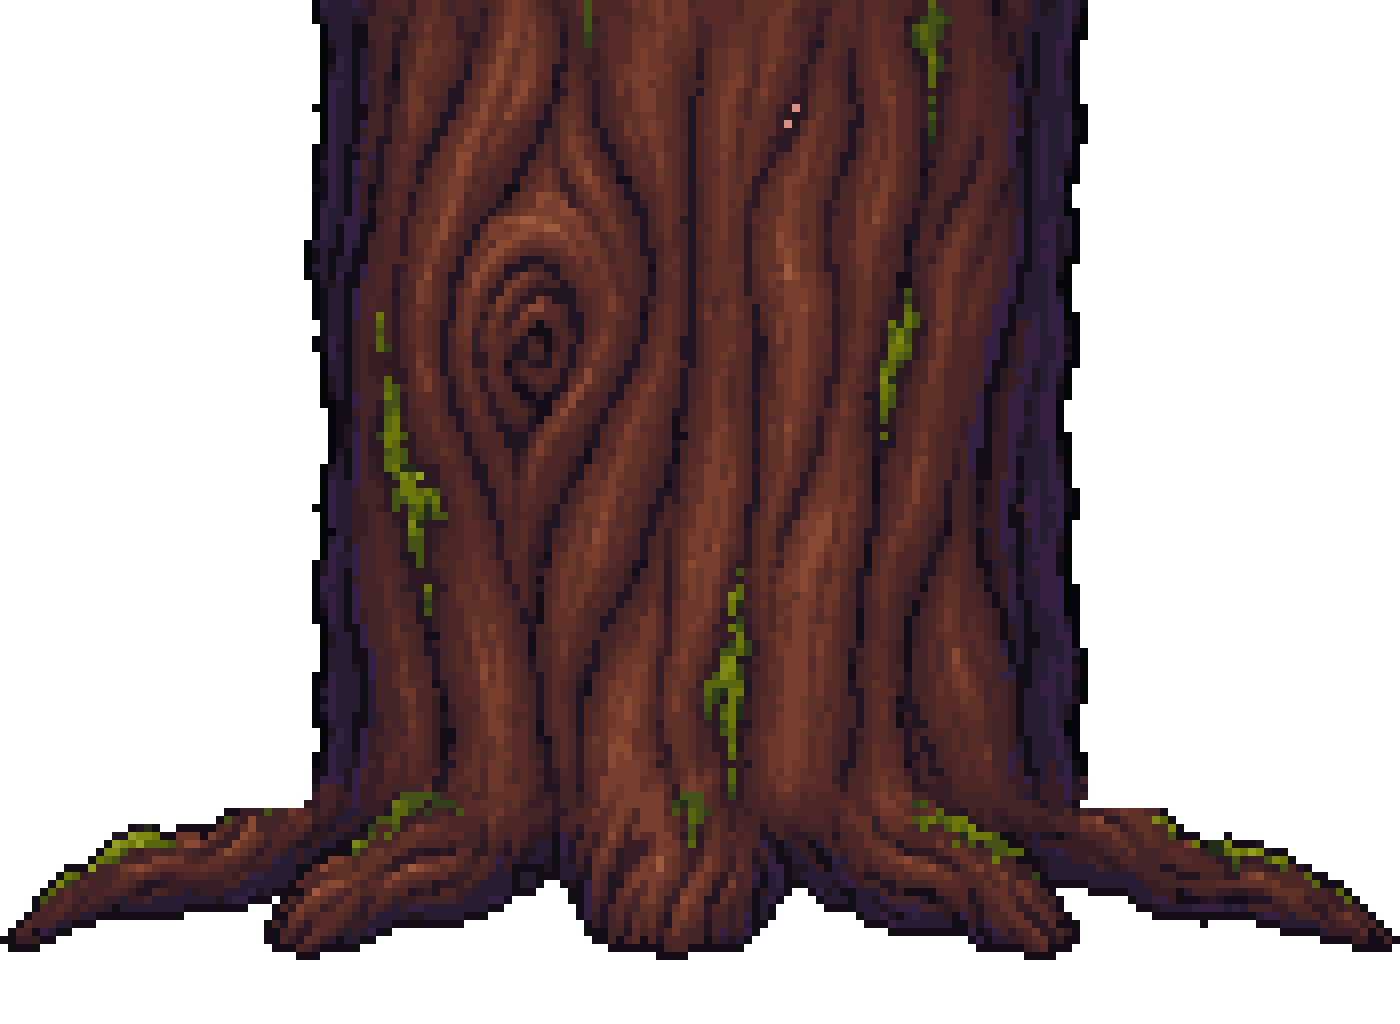
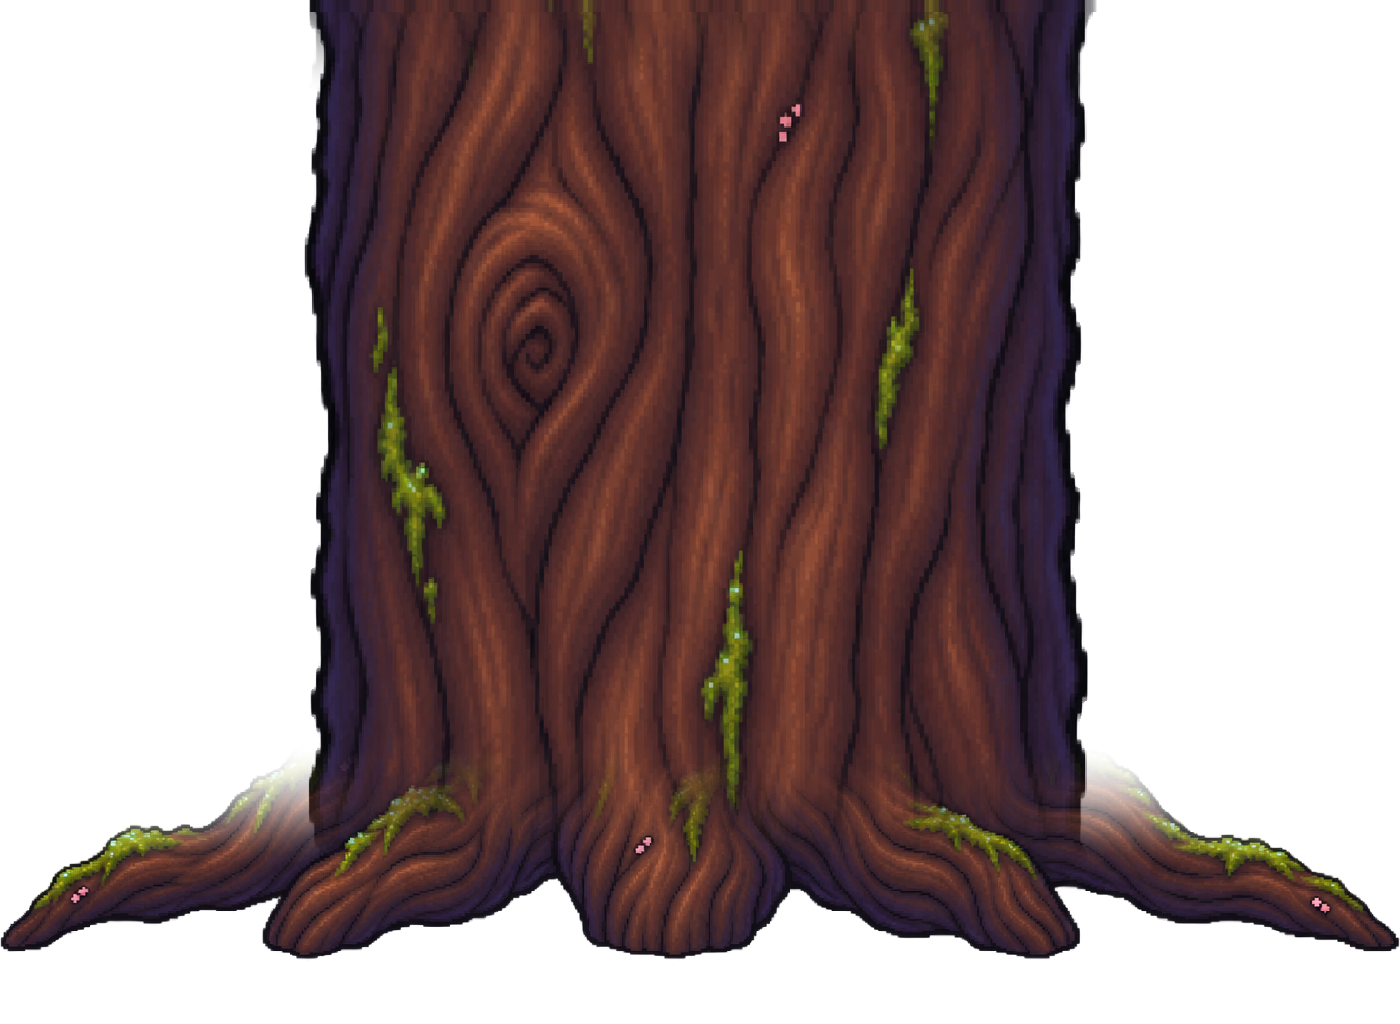
Troncs et branches : meme grain de pixel partout. Les pieces reviennent a l'art d'origine et BrancheKit pixelise l'image assemblee (cases de 2 px du monde, palette d'ecorce de 24 couleurs) : plus de pixels de taille differente selon l'epaisseur, ni de grille cassee sur les branches courbes

diff --git a/src/utils/BrancheKit.js b/src/utils/BrancheKit.js
@@ -47,16 +47,70 @@ function brancheCanvas(w, h) {
   return c;
 }
 
-// Pièces refaites en pixel art (tools/pixelfix.js, registre PIXEL_FIXED) : on les
-// réduit SANS lissage, sinon leurs blocs de pixels redeviennent flous une fois
-// ramenés à l'échelle du monde. Art IA d'origine ou dessin par code : lissé.
-const BRANCHE_PIXEL_ART = typeof PIXEL_FIXED !== 'undefined' && !!PIXEL_FIXED['assets/decors/elements/branche_milieu.png'];
-
 function brancheCtx(c) {
   const ctx = c.getContext('2d');
-  ctx.imageSmoothingEnabled = !BRANCHE_PIXEL_ART;
+  ctx.imageSmoothingEnabled = true;
   ctx.imageSmoothingQuality = 'high';
   return ctx;
+}
+
+// Pixel art à grain UNIQUE (retour utilisateur du 2026-11-11 : « les éléments
+// ne sont pas tous au même niveau de pixel »). Pixeliser les six pièces ne
+// suffisait pas : chaque branche les étire selon son épaisseur (pixels de 2 à
+// 4 px selon la branche) et les branches courbes les découpent en tranches
+// tournées (grille cassée). On assemble donc avec l'art d'origine, lissé, puis
+// on pixelise l'image FINALE : cases de BRANCHE_PIXEL px du monde, couleur =
+// moyenne de la case ramenée à la palette de l'écorce (24 couleurs tirées des
+// pièces par pixel-fixer, `make-palette`), bord net (case pleine ou vide).
+// 0 = désactivé (art lissé d'origine).
+const BRANCHE_PIXEL = 2;
+const BRANCHE_PALETTE = [
+  0x040509, 0x120d17, 0x1e1420, 0x2c1922, 0x1a2317, 0x291c34, 0x381f25, 0x352246,
+  0x442326, 0x28361c, 0x4f2927, 0x5b2e29, 0x36461a, 0x67352b, 0x753c2e, 0x485714,
+  0x864733, 0x5d690f, 0xa05b3d, 0x6f7a0d, 0x828c14, 0x94a323, 0xdd8c88, 0xaac359,
+].map((c) => [(c >> 16) & 255, (c >> 8) & 255, c & 255]);
+
+function branchePixelate(canvas) {
+  const G = BRANCHE_PIXEL;
+  if (!G) return canvas;
+  const w = canvas.width, h = canvas.height;
+  const ctx = canvas.getContext('2d');
+  const img = ctx.getImageData(0, 0, w, h);
+  const d = img.data;
+  const cache = new Map();
+  for (let cy = 0; cy < h; cy += G) {
+    for (let cx = 0; cx < w; cx += G) {
+      let r = 0, g = 0, b = 0, a = 0, n = 0;
+      for (let y = cy; y < Math.min(h, cy + G); y++) {
+        for (let x = cx; x < Math.min(w, cx + G); x++) {
+          const i = (y * w + x) * 4, al = d[i + 3];
+          r += d[i] * al; g += d[i + 1] * al; b += d[i + 2] * al; a += al; n++;
+        }
+      }
+      let out = null;
+      if (a / n >= 128) {
+        r /= a; g /= a; b /= a;
+        const key = ((r >> 2) << 12) | ((g >> 2) << 6) | (b >> 2);
+        out = cache.get(key);
+        if (!out) {
+          let best = Infinity;
+          for (const c of BRANCHE_PALETTE) {
+            const dr = c[0] - r, dg = c[1] - g, db = c[2] - b, dist = dr * dr * 0.3 + dg * dg * 0.59 + db * db * 0.11;
+            if (dist < best) { best = dist; out = c; }
+          }
+          cache.set(key, out);
+        }
+      }
+      for (let y = cy; y < Math.min(h, cy + G); y++) {
+        for (let x = cx; x < Math.min(w, cx + G); x++) {
+          const i = (y * w + x) * 4;
+          if (out) { d[i] = out[0]; d[i + 1] = out[1]; d[i + 2] = out[2]; d[i + 3] = 255; } else d[i + 3] = 0;
+        }
+      }
+    }
+  }
+  ctx.putImageData(img, 0, 0);
+  return canvas;
 }
 
 // Image source d'une pièce : l'art s'il est chargé, sinon le dessin par code.
@@ -348,6 +402,7 @@ function addBranchImage(scene, b) {
   let meta = BRANCHE_META.get(key);
   if (!meta || !scene.textures.exists(`${key}-0`)) {
     const { canvas, dx, dy } = brancheCompose(scene, b);
+    branchePixelate(canvas);
     const chunks = [];
     for (let i = 0, x = 0; x < canvas.width; i++, x += BRANCHE_MAX_TEXTURE) {
       const w = Math.min(BRANCHE_MAX_TEXTURE, canvas.width - x);
@@ -355,10 +410,12 @@ function addBranchImage(scene, b) {
       part.getContext('2d').drawImage(canvas, x, 0, w, canvas.height, 0, 0, w, canvas.height);
       const k = `${key}-${i}`;
       if (scene.textures.exists(k)) scene.textures.remove(k);
-      scene.textures.addCanvas(k, part);
+      const tex = scene.textures.addCanvas(k, part);
+      if (BRANCHE_PIXEL && tex) tex.setFilter(Phaser.Textures.FilterMode.NEAREST);
       chunks.push({ key: k, x });
     }
-    meta = { dx, dy, chunks };
+    // Pixel art : image posée sur un px entier, la grille ne bave pas.
+    meta = BRANCHE_PIXEL ? { dx: Math.round(dx), dy: Math.round(dy), chunks } : { dx, dy, chunks };
     BRANCHE_META.set(key, meta);
   }
   return meta.chunks.map((c) => {
@@ -408,9 +465,10 @@ function addTrunkImage(scene, t, data) {
     const dx = Math.round((w - segW) / 2);
     for (let y = hasBase ? footTop : h; y > 0; y -= tileH) ctx.drawImage(seg, dx, y - tileH, segW, tileH);
     if (hasBase) ctx.drawImage(branchePiece(scene, 'tronc_base'), 0, footTop, baseW, baseH);
-    scene.textures.addCanvas(key, canvas);
+    const tex = scene.textures.addCanvas(key, branchePixelate(canvas));
+    if (BRANCHE_PIXEL && tex) tex.setFilter(Phaser.Textures.FilterMode.NEAREST);
   }
-  const img = scene.add.image(t.x - w / 2, top, key).setOrigin(0, 0);
+  const img = scene.add.image(Math.round(t.x - w / 2), top, key).setOrigin(0, 0);
   if (t.flipX) img.setFlipX(true);
   if (t.tint != null) img.setTint(t.tint);
   img.lookRole = 'world';

diff --git a/src/data/pixel_fixed.js b/src/data/pixel_fixed.js
@@ -3,12 +3,6 @@
 // BootScene les affiche sans lissage (NEAREST) ; import_codex_assets.py ne
 // les réécrit pas. `f` : px de l'image = 1 pixel dessiné ; `set` : le lot.
 const PIXEL_FIXED = {
-  "assets/decors/elements/branche_base.png": {"f":8,"set":"files:assets/decors/elements/branche_milieu.png"},
-  "assets/decors/elements/branche_bout.png": {"f":8,"set":"files:assets/decors/elements/branche_milieu.png"},
-  "assets/decors/elements/branche_fourche.png": {"f":8,"set":"files:assets/decors/elements/branche_milieu.png"},
-  "assets/decors/elements/branche_milieu.png": {"f":8,"set":"files:assets/decors/elements/branche_milieu.png"},
-  "assets/decors/elements/tronc_base.png": {"f":8,"set":"files:assets/decors/elements/branche_milieu.png"},
-  "assets/decors/elements/tronc_segment.png": {"f":8,"set":"files:assets/decors/elements/branche_milieu.png"},
   "assets/decors/tuiles_corrompues_frames/coin.png": {"f":5.33,"set":"tiles:tuiles_corrompues"},
   "assets/decors/tuiles_corrompues_frames/dirt_angle.png": {"f":5.33,"set":"tiles:tuiles_corrompues"},
   "assets/decors/tuiles_corrompues_frames/dirt_b.png": {"f":5.33,"set":"tiles:tuiles_corrompues"},

diff --git a/CLAUDE.md b/CLAUDE.md
@@ -103,11 +103,10 @@ ligne de marche du jeu par défaut. Hauteur de marche : `448 + GROUND_STAND_SINK
   manquait de détails pour l'utilisateur), 20 couleurs, raccords gardés (mode tuile) :
   `node tools/pixelfix.js tiles tuiles_ecorce tuiles_flottantes tuiles_corrompues --colors 20 --tile-px 48`.
   Comparaison 24/32/48/64 : `docs/production/apercus/tuiles_24_32_48_64.png`.
-  **Troncs et branches du grand arbre** (6 pièces de `assets/decors/elements/` : branche_milieu,
-  _base, _bout, _fourche, tronc_segment, tronc_base) refaits le 2026-11-11, même densité que
-  les tuiles au départ, puis pixels plus gros à la demande (8 px par pixel), 24 couleurs, mode `--tileable` (pièces qui se raccordent) ;
-  BrancheKit les compose sans lissage quand elles sont dans le registre :
-  `node tools/pixelfix.js files <les 6 png> --tileable --factor 8 --colors 24`.
+  **Troncs et branches du grand arbre** : pixelisés EN JEU, après assemblage (BrancheKit,
+  `branchePixelate`, 2026-11-11) : cases de `BRANCHE_PIXEL` = 2 px du monde, palette d'écorce
+  de 24 couleurs. Les six pièces de `assets/decors/elements/` restent l'art d'origine : les
+  pixeliser une à une donnait un grain différent selon l'épaisseur et cassé sur les courbes.
   Référence : `node tools/pixelfix.js agarica --height 92`. Les autres personnages se
   calent sur cette densité. Ne refaire d'autres images qu'avec l'accord de l'utilisateur.
 
